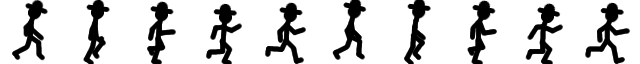
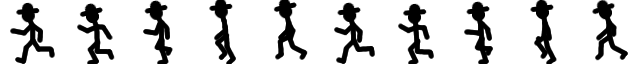
Simple fixes

diff --git a/core/src/main/java/pl/pepuch/wildjoe/view/SpiderView.java b/core/src/main/java/pl/pepuch/wildjoe/view/SpiderView.java
@@ -1,19 +1,49 @@
 package pl.pepuch.wildjoe.view;
 
-import static playn.core.PlayN.graphics;
 import pl.pepuch.wildjoe.helpers.AssetsFactory;
 import pl.pepuch.wildjoe.model.SpiderModel;
 import playn.core.Image;
-import playn.core.ImageLayer;
 
 public class SpiderView extends DynamicView {
 	
-	public SpiderView(SpiderModel cartridge) {
-		super(cartridge);
-		Image image = AssetsFactory.getImage("images/bug.png");
-		ImageLayer layer = graphics().createImageLayer(image);
-		layer.setOrigin(image.width()/2, image.height()/2);
-		addLayer(layer);	
+	// public tylko tymczasowo, do testow
+	public Animation animationRun;
+	
+	public SpiderView(SpiderModel model) {
+		super(model);
+		
+		Image imageRun = AssetsFactory.getImage("images/bug.png");
+
+		int size = 32;
+		animationRun = new Animation(imageRun, size, size, 2, 100);
+		
+		animationRun.setVisible(true);
+
+		addLayerAt(animationRun.getLayer(), 0, size/-2);
+	}
+	
+
+	public void paint(float alpha) {
+		animationRun.paint(alpha);
+		super.paint(alpha);
+	}
+	
+	public void update(float delta) {
+		animationRun.update(delta);
+		super.update(delta);
+	}
+	
+	
+	public void turnLeft() {
+		if (model().isTurnedRight()) {
+			animationRun.mirrorHorizontally();
+		}
+	}
+	
+	public void turnRight() {
+		if (model().isTurnedLeft()) {
+			animationRun.mirrorHorizontally();
+		}
 	}
 	
 }

diff --git a/core/src/main/java/pl/pepuch/wildjoe/view/PlayerView.java b/core/src/main/java/pl/pepuch/wildjoe/view/PlayerView.java
@@ -19,11 +19,11 @@ public class PlayerView extends DynamicView {
 		Image imageJump = AssetsFactory.getImage("images/idle.png");
 //		Image imageJump = AssetsFactory.getImage("images/jump.png");
 
-		int width = 40;
+		int width = 64;
 		int height = 64;
 		int size = 64;
 		animationIdle = new Animation(imageIdle, size, size, 1, 66);
-		animationRun = new Animation(imageRun, width, height, 13, 66);
+		animationRun = new Animation(imageRun, width, height, 10, 66);
 		animationJump = new Animation(imageJump, size, size, 1, 66);
 		
 		animationIdle.setVisible(false);

diff --git a/core/src/main/java/pl/pepuch/wildjoe/controller/Mummy.java b/core/src/main/java/pl/pepuch/wildjoe/controller/Mummy.java
@@ -16,7 +16,7 @@ public class Mummy extends DynamicActor {
 		model = new MummyModel(world, position);
 		view = new MummyView(model());
 		go();
-		turnRight();
+		turnLeft();
 		model().body().setUserData(this);
 		weapon = new SpiderWeapon(model().gameWorld(), model().position());
 		weapon.model().setFrequency(1/5f); // one cartridge per one second (1/1 = 1 ;))

diff --git a/core/src/main/java/pl/pepuch/wildjoe/controller/Spider.java b/core/src/main/java/pl/pepuch/wildjoe/controller/Spider.java
@@ -60,5 +60,17 @@ public class Spider extends DynamicActor {
 	public SpiderView view() {
 		return (SpiderView)view;
 	}
+	
+	@Override
+	public void turnLeft() {
+		view().turnLeft();
+		super.turnLeft();
+	}
+	
+	@Override
+	public void turnRight() {
+		view().turnRight();
+		super.turnRight();
+	}
 		
 }

diff --git a/core/src/main/java/pl/pepuch/wildjoe/controller/Player.java b/core/src/main/java/pl/pepuch/wildjoe/controller/Player.java
@@ -15,7 +15,7 @@ public class Player extends DynamicActor {
 		model = new PlayerModel(world, position);
 		view = new PlayerView(model());
 		model().body().setUserData(this);
-		turnRight();
+		turnLeft();
 	}
 	
 	public void paint(float alpha) {

diff --git a/core/src/main/java/pl/pepuch/wildjoe/view/MummyView.java b/core/src/main/java/pl/pepuch/wildjoe/view/MummyView.java
@@ -8,7 +8,6 @@ public class MummyView extends DynamicView {
 	
 	// public tylko tymczasowo, do testow
 	public Animation animationRun;
-	public Animation animationJump;
 	
 	public MummyView(MummyModel model) {
 		super(model);

diff --git a/README.md b/README.md
@@ -1,6 +1,6 @@
 wildjoe - my first game
 =======
 
-PlayN 2D platform game (not finished yet - I'm fighting with graphics :/)
+HTML5 (PlayN) 2D platform game (not finished yet - I'm fighting with graphics :/)
 
 Developer version: joethewild.appspot.com (http://joethewild.appspot.com)
